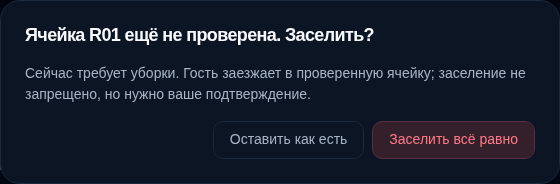
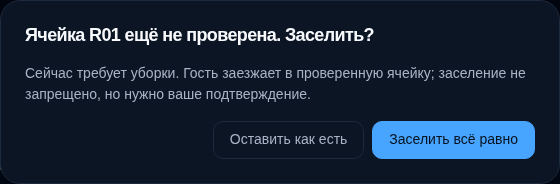
fix(reservations): the check-in warning confirms in the primary tone, not the alarm one
Checking in is neither a cancellation nor a debt (DESIGN.md §9), so the
"Заселить всё равно" button is primary; dialog shots re-taken, typecheck,
lint and the housekeeping spec (6/6) in the journal.

Claude-Session: https://claude.ai/code/session_01Qq3QgXQY198zfg4Wd3t4tr

Changed region(s): [[0.6375, 0.6522, 0.9714, 0.8696]]

diff --git a/apps/web/src/app/reservations/[number]/actions-panel.tsx b/apps/web/src/app/reservations/[number]/actions-panel.tsx
@@ -464,6 +464,8 @@ function StayButtons(props: {
                   title: `Ячейка ${props.item.unitCode} ещё не проверена. Заселить?`,
                   body: `Сейчас ${HOUSEKEEPING_RU[hk]}. Гость заезжает в проверенную ячейку; заселение не запрещено, но нужно ваше подтверждение.`,
                   confirmLabel: 'Заселить всё равно',
+                  // заселение — не отмена и не долг: тон основной, а не тревоги (DESIGN.md §9)
+                  tone: 'primary',
                 });
                 if (!ok) return;
               }

diff --git a/tests/runs/JOURNAL.md b/tests/runs/JOURNAL.md
@@ -1624,3 +1624,6 @@
 | 22.09.2026 12:23 | e2e (частично: --config tests/ui/playwright.config.ts --workers=1 tests/ui/requests.spec.ts tests/ui/accessibility.spec.ts) | ✅ 30 из 30 | 4 мин 4 с | c668535 +14 | [лог](logs/2026-09-22T07-23-19Z-e2e-cde5.log) | Q-155/Q-156: соседние наборы, партия 3 |
 | 22.09.2026 12:27 | lint | ✅ без ошибок | 12 с | c668535 +14 | [лог](logs/2026-09-22T07-27-24Z-lint-9521.log) | Q-155/Q-156: выезд → «требует уборки», предупреждение при заселении |
 | 22.09.2026 12:27 | unit | ✅ 1398 из 1401, пропущено 3 | 1 мин 12 с | c668535 +9 | [лог](logs/2026-09-22T07-27-37Z-unit-5852.log) | Q-155/Q-156: выезд → «требует уборки», предупреждение при заселении |
+| 22.09.2026 12:32 | typecheck | ✅ без ошибок | 23 с | 4fdff97 +1 | [лог](logs/2026-09-22T07-32-21Z-typecheck-21e8.log) | окно заселения: тон кнопки основной |
+| 22.09.2026 12:32 | lint | ✅ без ошибок | 13 с | 4fdff97 +1 | [лог](logs/2026-09-22T07-32-45Z-lint-bda8.log) | окно заселения: тон кнопки основной |
+| 22.09.2026 12:33 | e2e (частично: --config tests/ui/playwright.config.ts --workers=1 tests/ui/housekeeping.spec.ts) | ✅ 6 из 6 | 23 с | 4fdff97 +1 | [лог](logs/2026-09-22T07-33-47Z-e2e-c795.log) | окно заселения: тон кнопки основной |
